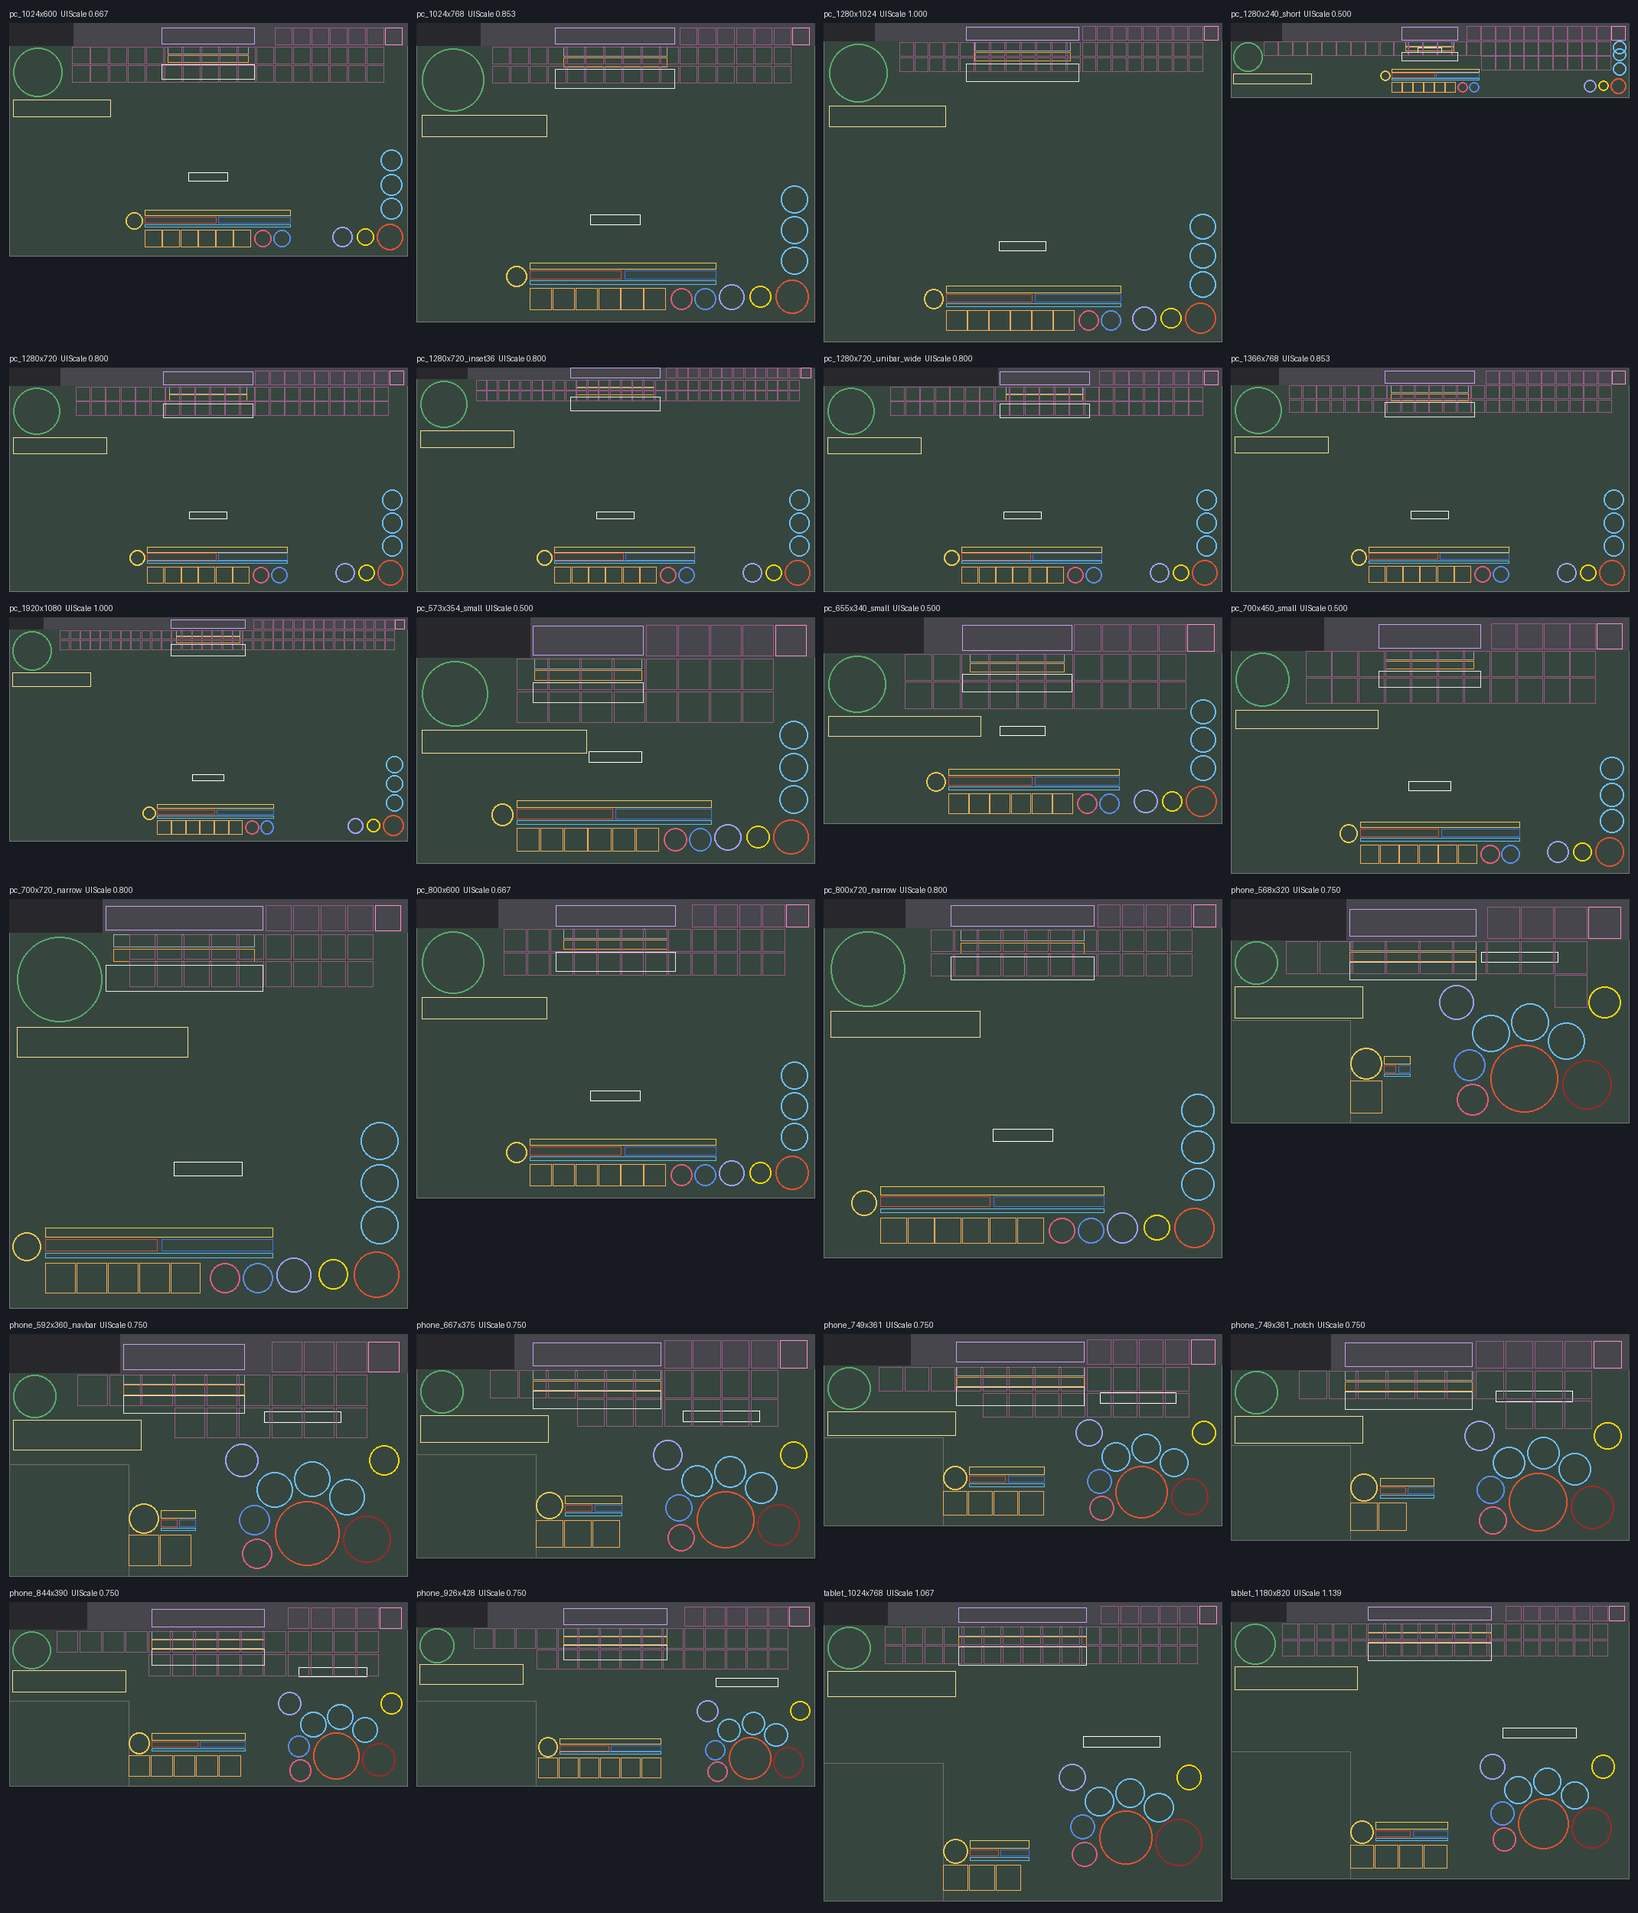
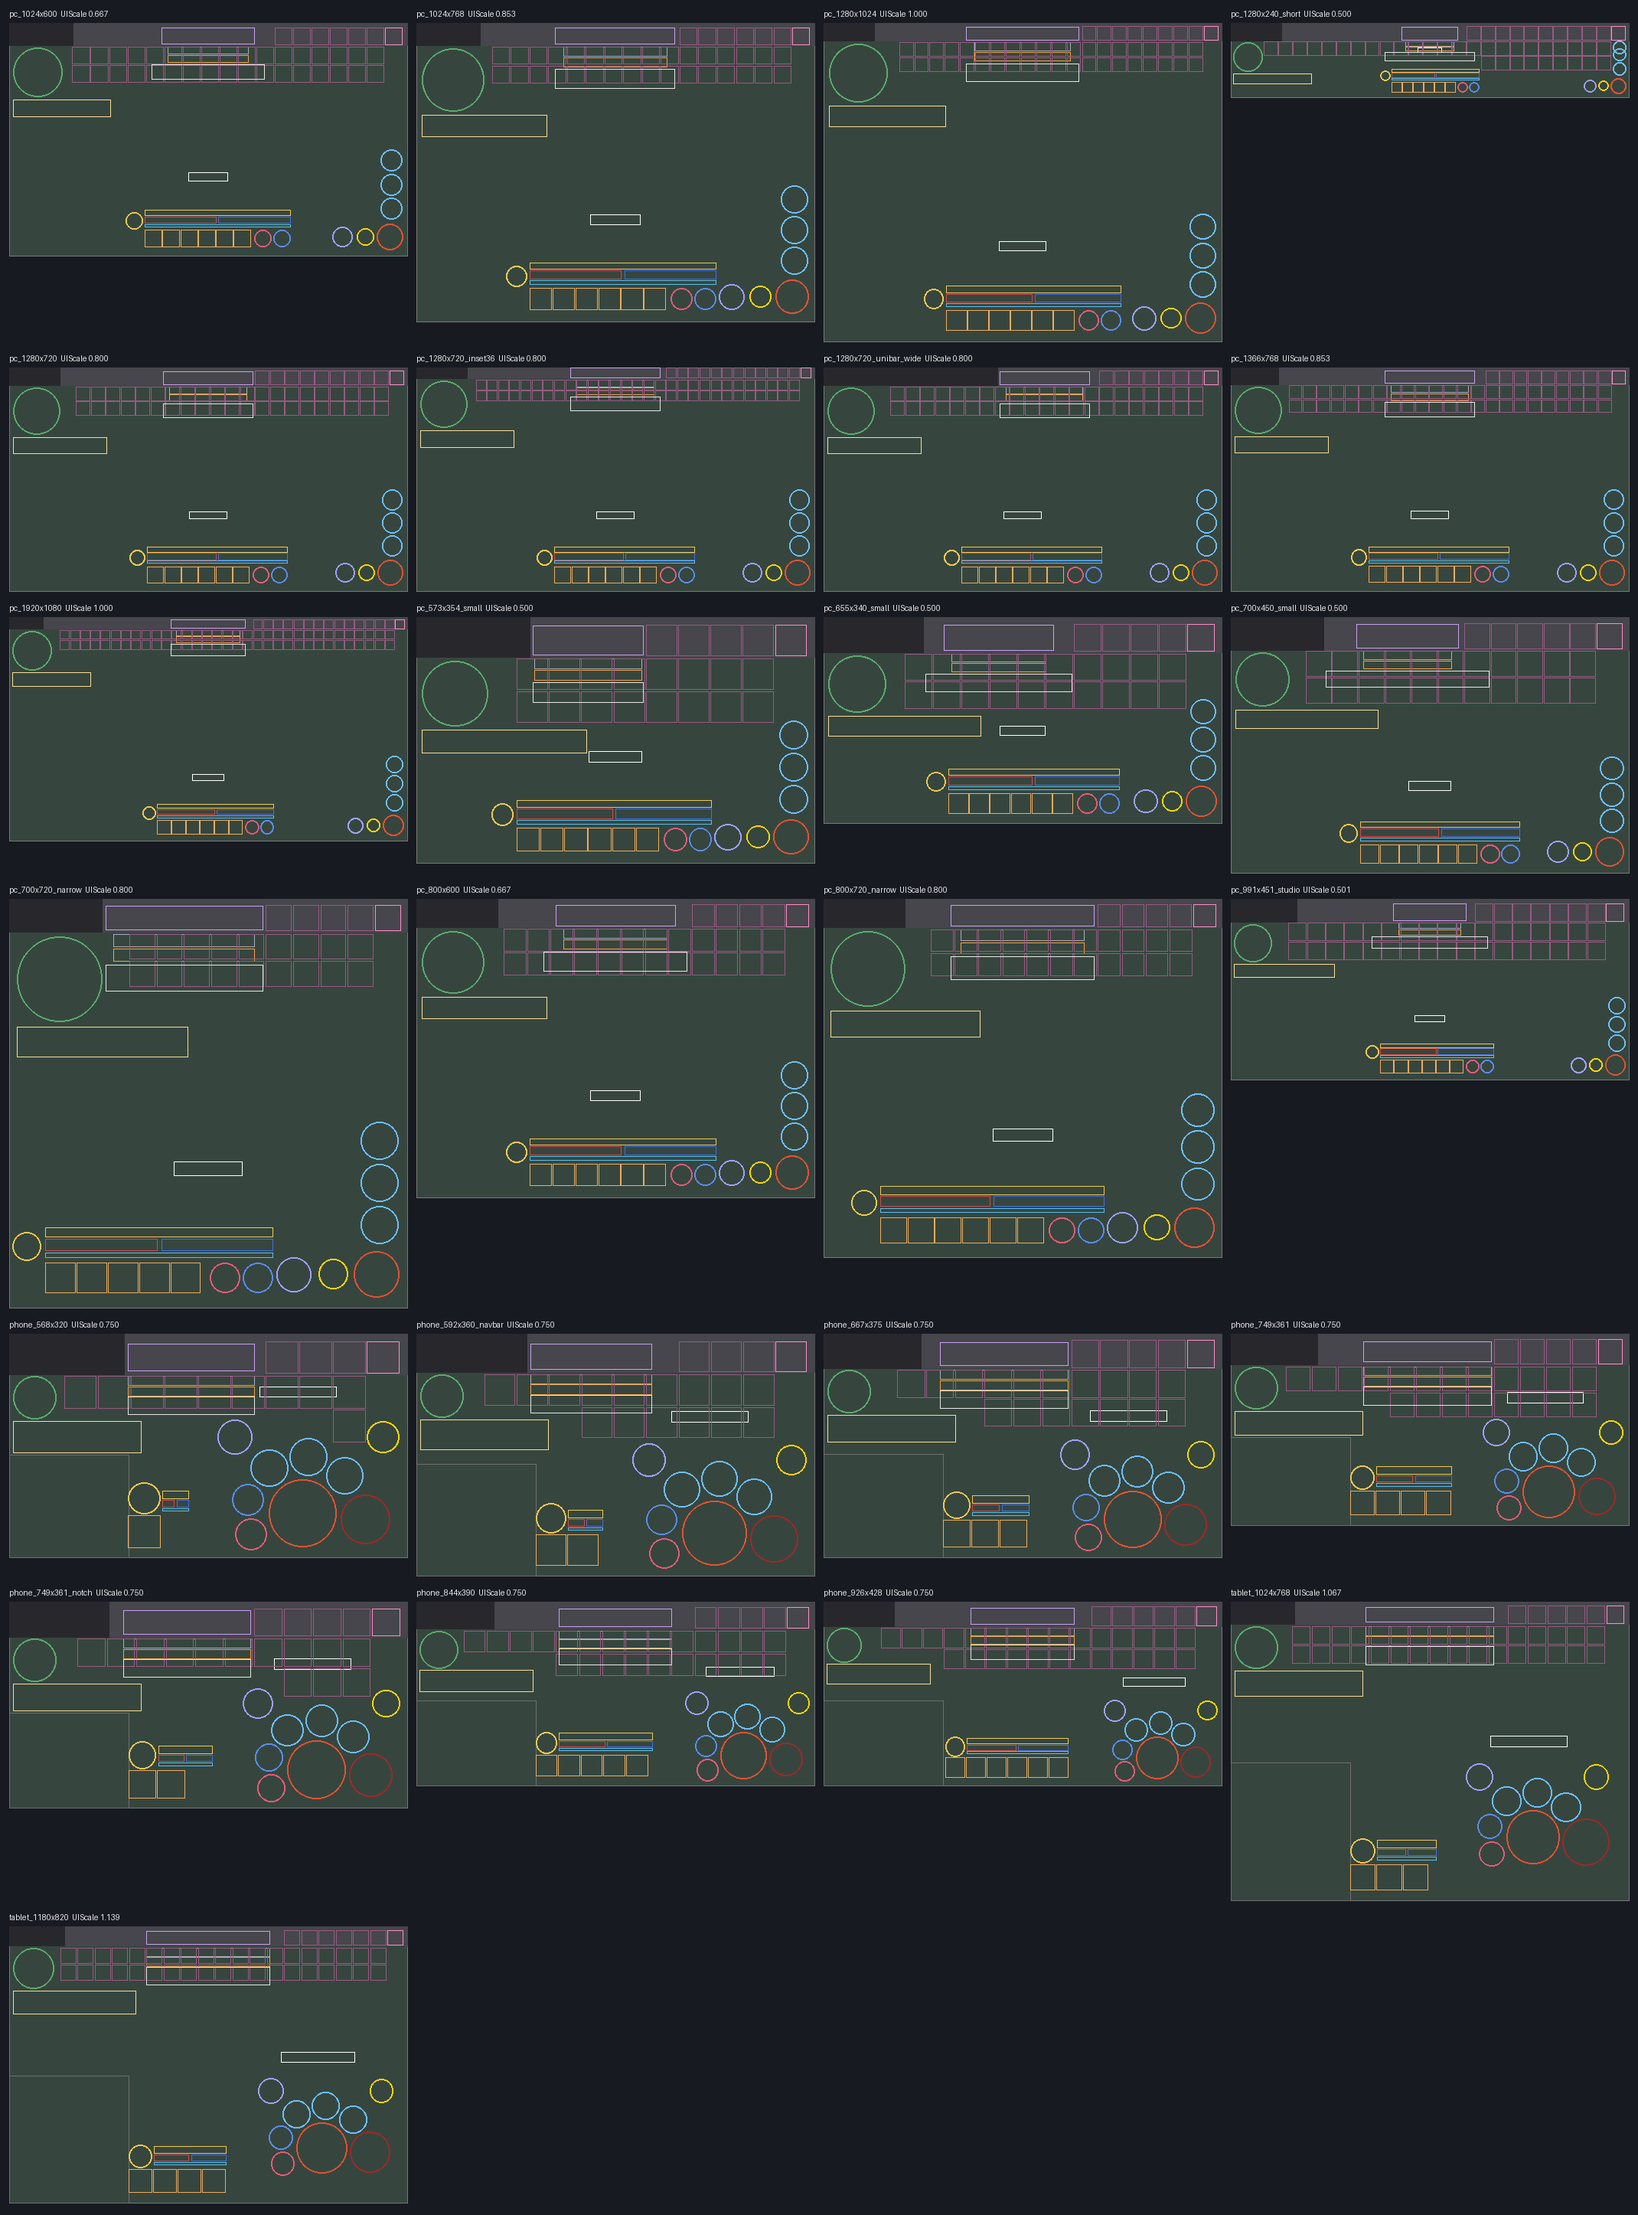
작은 PC 창 글자: 최소 크기 화면 픽셀 기준으로 줄이기 + 알림 칸 폭 288 px
UiSandbox 2026-10-08 at 991x451 (TextBounds, photo pixels): Roblox applies
UITextSizeConstraint in screen px - UIScale does not reach it - so UIKit's style floor
ceil(MinPx * PxFloor / scale) rendered as that many REAL px: 18 px Body text on the
0.5 HUD (the quest line and notices still cut after the first fixes).
- UIKit STYLE.Refresh: on a PC window under the 0.8 desktop scale the floor shrinks once
  more with the window (x PxFloor): 12 px Body at 991x451. 720p+ and phones unchanged.
- HudLayout: the notify column keeps its 1280x720 width (288 real px) on small PC
  windows (11 px notices kept 1 cut line); the centre column still clamps it.
- Layout test: pc_991x451_studio screen, notify checks (width, centred with chips) +
  exceptions for 4 windows under ~730 px, mutation; 58/58 caught, 11830 checks.
- Other offline tests that load UIKit pass (bark 28/28, first weapon 9/9, skill learn
  16/16, story client 38/38).

diff --git a/tools/test_hud_layout.py b/tools/test_hud_layout.py
@@ -79,6 +79,8 @@ SCREENS = [
     ("pc_655x340_small", False, 655, 340, False, True, INSET, None),
     ("pc_573x354_small", False, 573, 354, False, True, INSET, None),
     ("pc_700x450_small", False, 700, 450, False, True, INSET, None),
+    # the main Studio game view the user plays in (검수 2026-10-08 photos: 991x451 -> UIScale 0.5)
+    ("pc_991x451_studio", False, 991, 451, False, True, INSET, None),
     # a very short window: overlaps are accepted there, but everything must stay on screen below the top bar
     ("pc_1280x240_short", False, 1280, 240, False, False, INSET, None),
     ("phone_749x361", True, 749, 361, True, True, INSET, None),
@@ -118,6 +120,16 @@ EXCEPTIONS = [
     ("pc_573x354_small", "PC quest lines at least 250 px wide",
      "A 573x354 desktop window (UIScale 0.5): the combo line sits level with the quest lines 236 px from their left edge, "
      "so they widen only to a GAP before it (236 px instead of 250)."),
+    # 2026-10-08: the notify column's 288 px floor (its 1280x720 width) stops at the centre column's room between the
+    # quest lines / minimap and the right block on windows narrower than ~730 px
+    ("pc_700x720_narrow", "PC notify column at least 288 px wide",
+     "A 700x720 desktop window: the centre column between the left and right blocks is 275 px wide."),
+    ("pc_655x340_small", "PC notify column at least 288 px wide",
+     "A 655x340 desktop window (UIScale 0.5): the centre column between the minimap and the right block is 241 px."),
+    ("pc_573x354_small", "PC notify column at least 288 px wide",
+     "A 573x354 desktop window (UIScale 0.5): the centre column between the minimap and the right block is 159 px."),
+    ("pc_700x450_small", "PC notify column at least 288 px wide",
+     "A 700x450 desktop window (UIScale 0.5): the centre column between the minimap and the right block is 286 px."),
     ("phone_592x360_navbar", "fold holds the menu tiles in one line",
      "Android 640x360 with its 48 px navigation bar (592 px wide): the top bar holds Roblox's buttons, the war meter "
      "and [메뉴] with room for 3 fold squares beside it; the 4th wraps to the line right under the bar."),
@@ -145,6 +157,8 @@ MUTATIONS = [
      "local qw = q.W"),
     ("PC quest lines widen into their neighbours", "qw = math.min(qw, o.X - GAP - q.X)", "qw = qw"),
     ("PC bars keep the sheet height on small windows", "local d = PC_FLOOR.Bar / s - hb.H", "local d = 0"),
+    ("PC notify column keeps the sheet width on small windows",
+     "out.notify.W = math.max(out.notify.W, PC_FLOOR.NotifyW / s)", "out.notify.W = out.notify.W"),
     ("short desktop windows go to the phone sheet", "\tlocal sheet = touch\n",
      "\tlocal sheet = touch or (env.H or 0) * (env.Scale or 1) < 500\n"),
     ("touch targets may shrink to 30", "local MIN_TAP = 60", "local MIN_TAP = 30"),
